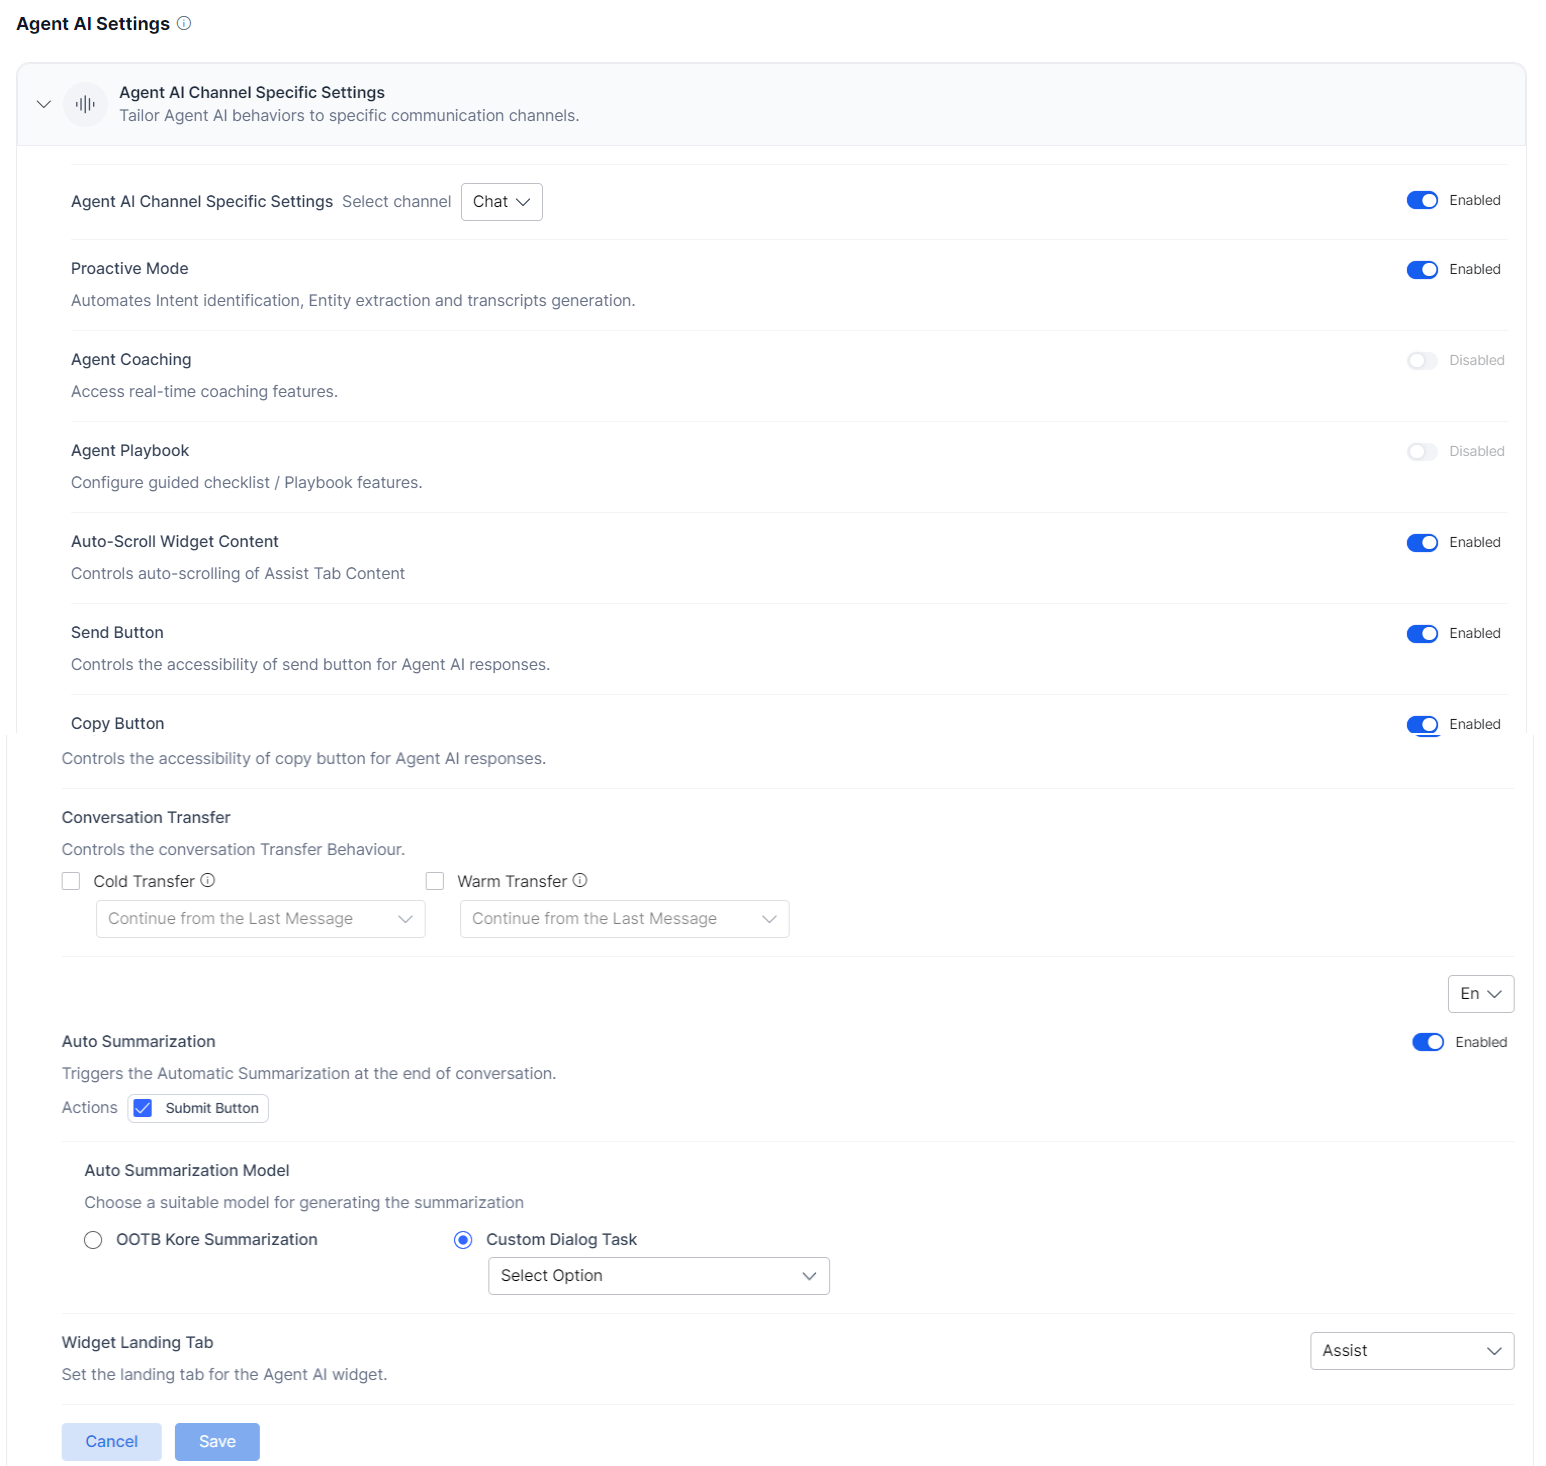
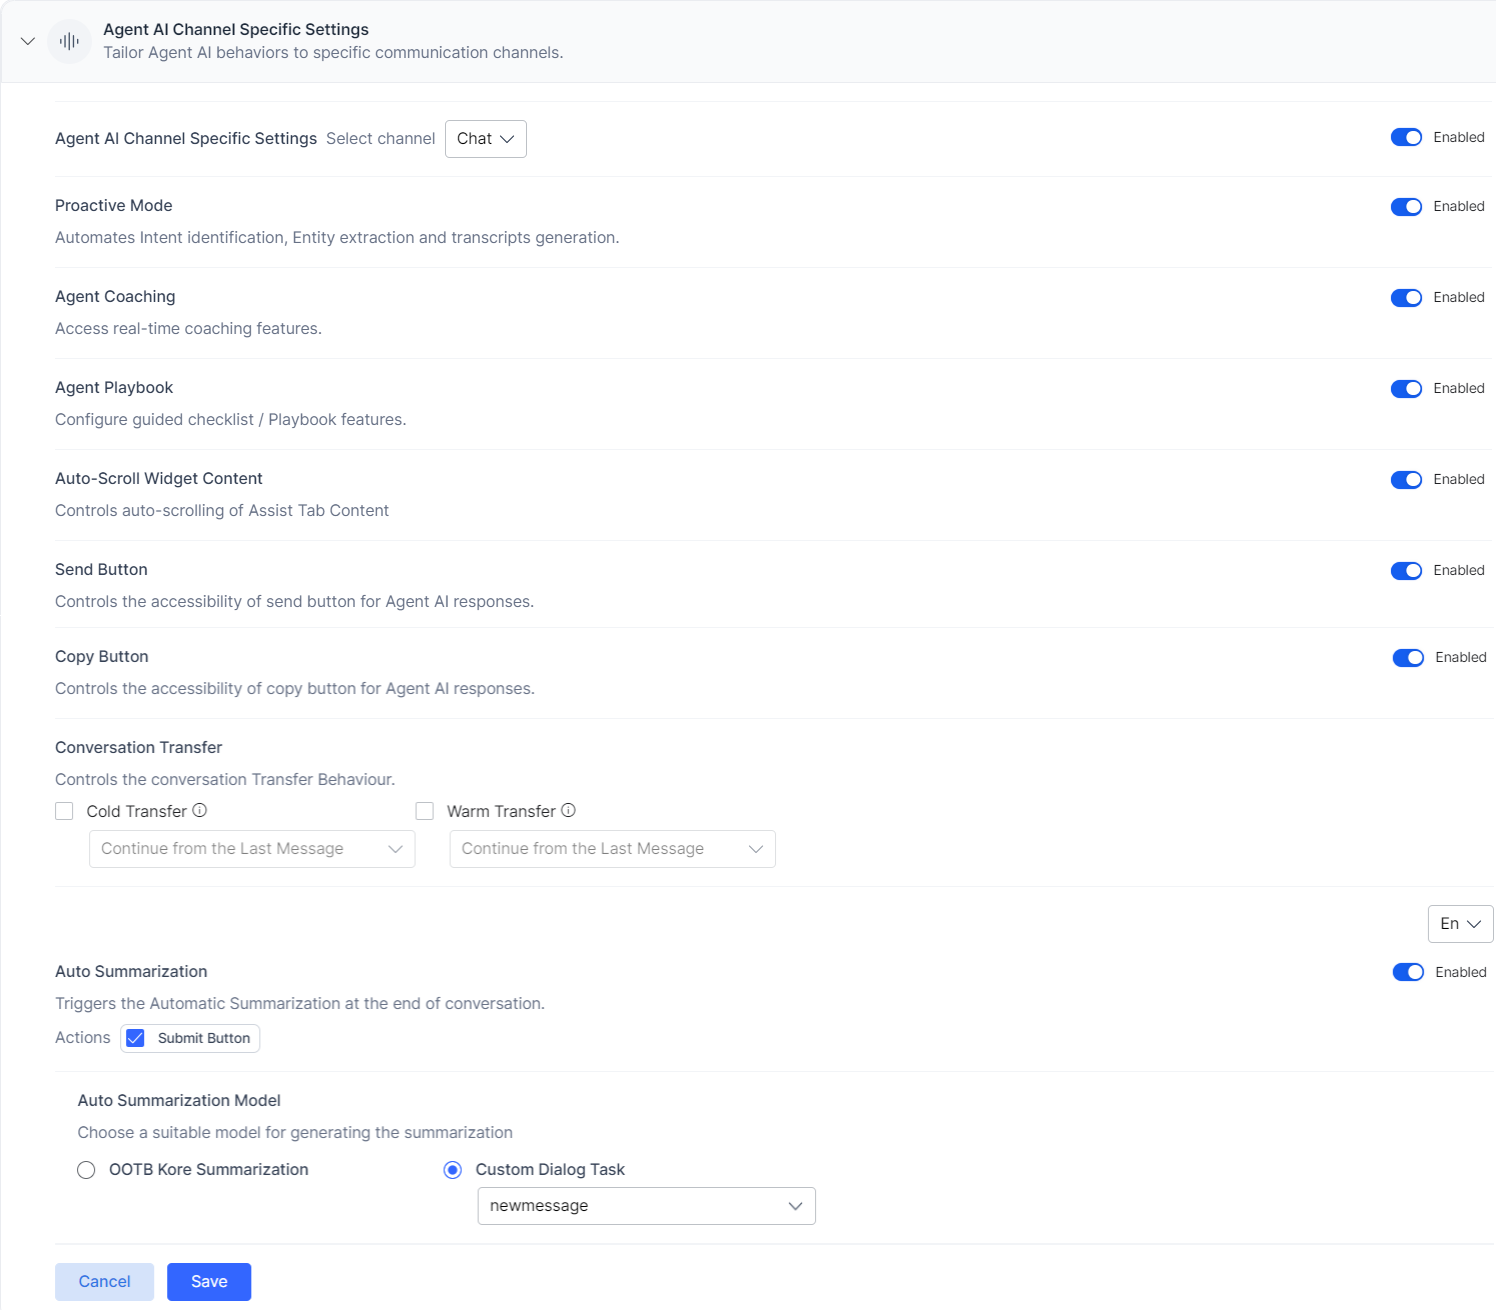
updating doc based on RN_v3.4.1

diff --git a/docs/xo/agentai/configuration/widget-settings.md b/docs/xo/agentai/configuration/widget-settings.md
@@ -1,6 +1,6 @@
 # Customizing the AgentAssist Widget
 
-The AgentAssist Settings page allows users to set the AgentAssist widget’s appearance. On this page, users can decide what features they want on the widget, how the widget’s search functionality should work, channel specific settings, the landing page, and the URL opening behavior.
+The AgentAssist Settings page allows users to set the AgentAssist widget’s appearance. On this page, users can decide what features they want on the widget, how the widget’s search functionality should work, channel specific settings, and the URL opening behavior.
 
 The AgentAssist Settings page has the following sections:
 
@@ -48,8 +48,6 @@ This section lets you set your preferences based on the channels. It has three c
 
     Third-party agent desktops can use the **Auto Summarization Model** widget to manage the automatic summarization process. They can select Kore’s default automatic summarization or the “Custom Dialog Task“ option, which lets them select a language-specific dialog task, enabling them to customize the Conversation Summary.
 
-* **Widget Landing Tab**: This widget allows you to select the default landing page for your selected channel and is available for all three channels. Note that the **Transcription** option appears here for selection only when the **Transcript Tab** widget is enabled.
-
 ### Steps to set channel specific preferences
 
 1. Sign in to XO Platform.
@@ -71,8 +69,6 @@ This section lets you set your preferences based on the channels. It has three c
         * **Universal Bot**: The backend logic detects it and populates its associated Child Bots. You can expand each Child Bot to view and select its dialog task.
 
         * **Child Bot/Normal/Singular Bot**: The Dialog Tasks list displays dialogs linked to the selected bot, and you can select any from the displayed list.
-
-9. Select an option from the list against the **Widget Landing Tab** section.
 
 10. Click **Save** to save your settings.
    <img src="../widget-settings-images/agentassist-channel-specific-settings-page-1.png" alt="agentassist-channel-specific-settings-page" title="agentassist-channel-specific-settings-page" style="border: 1px solid gray; zoom:80%;">
